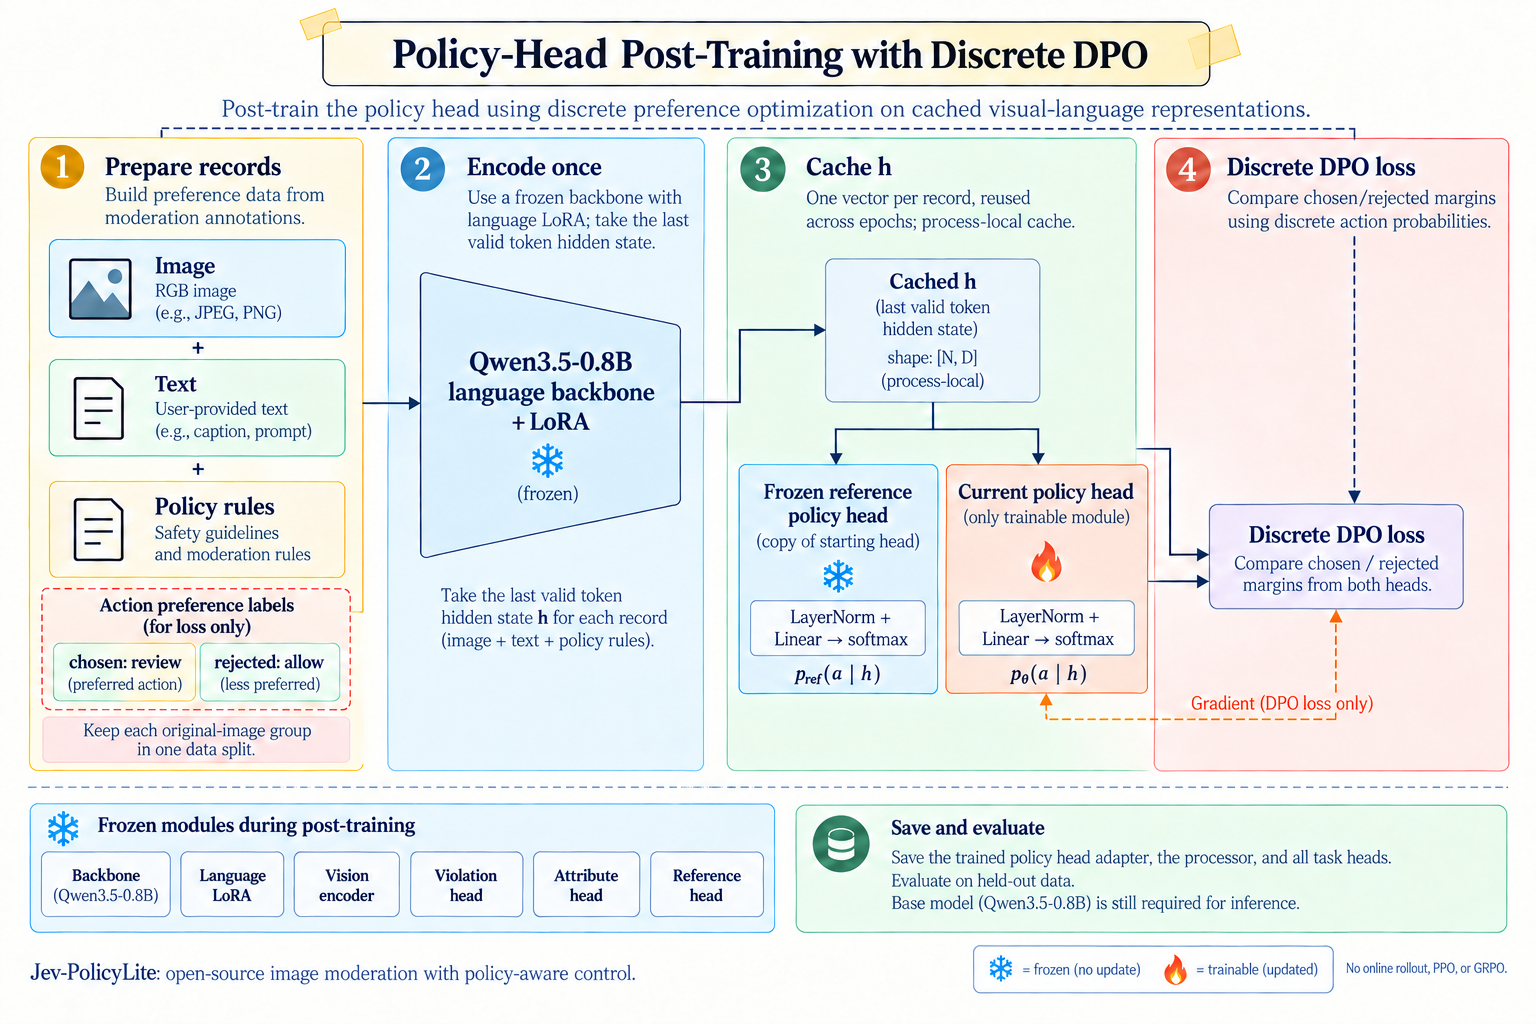
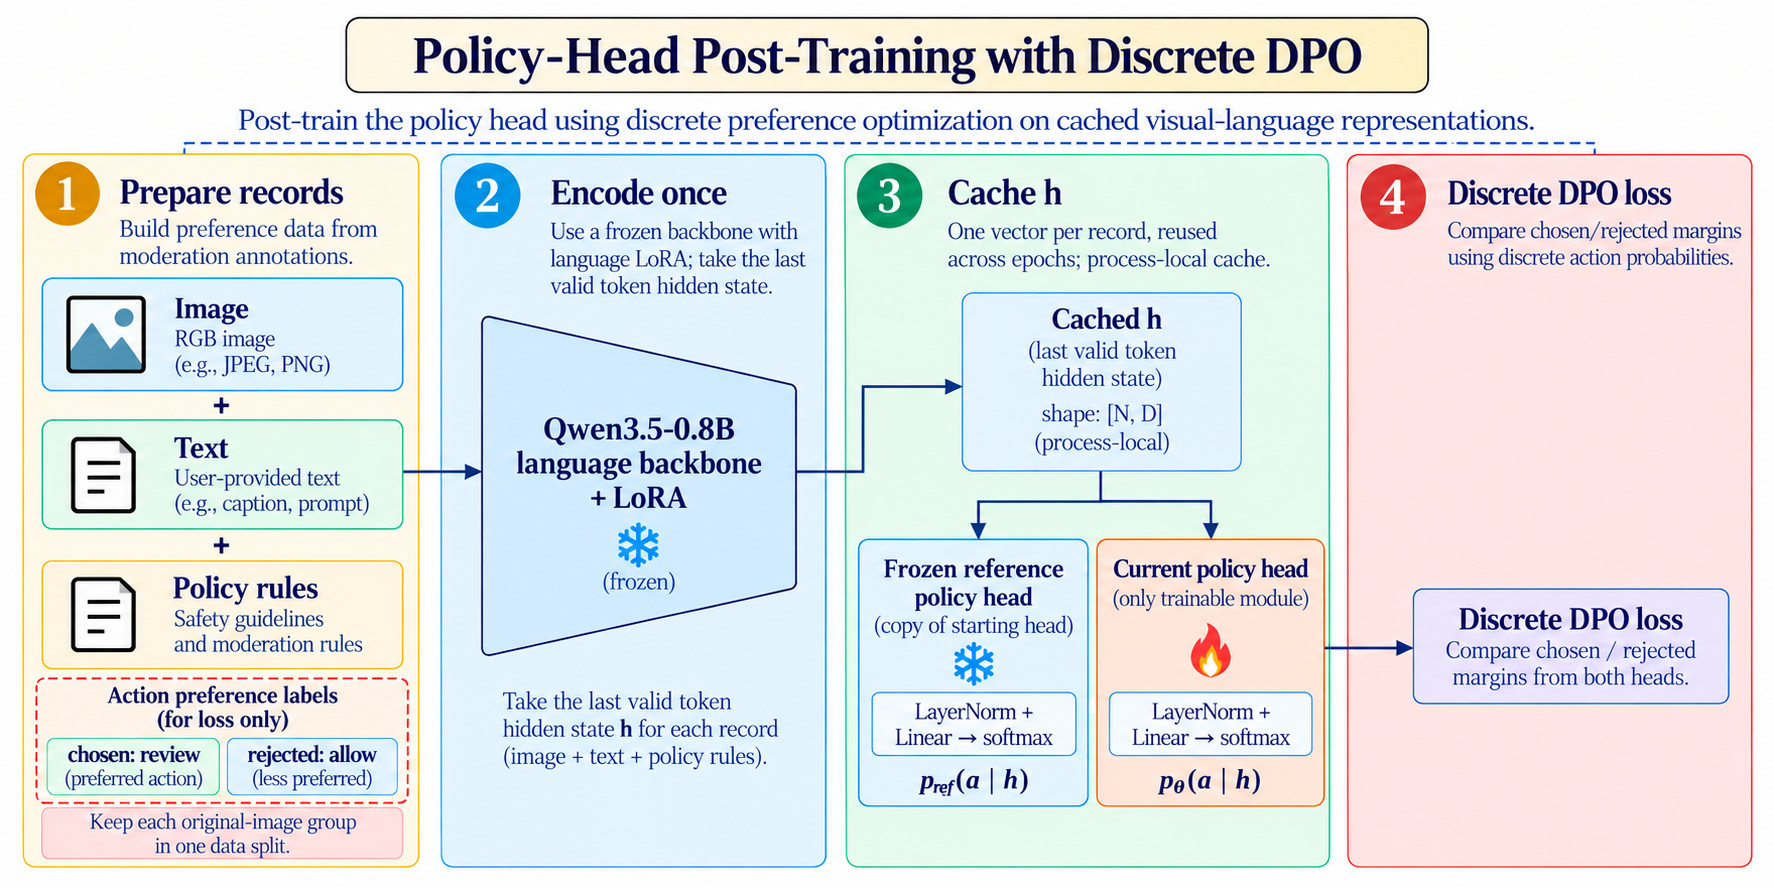
docs: use supplied final DPO figure

diff --git a/site/index.html b/site/index.html
@@ -73,7 +73,7 @@
 
     <section class="section wrap" id="post-training">
       <div class="section-heading"><div><p class="eyebrow">03 — POST-TRAINING, MADE LIGHTER</p><h2>缓存特征，<em>只训练策略头。</em></h2></div><p>每条图文记录先编码一次，在本次进程内缓存特征。<br>后续训练轮次不再重复运行主干。</p></div>
-      <figure class="paper-figure"><div class="figure-label"><span>FIG. 02 / PREFERENCE OPTIMIZATION</span><span>后训练工作流</span></div><button class="image-button" data-zoom="assets/post-training-paper.png" data-caption="后训练流程：偏好对、冻结特征与离散 DPO" aria-label="放大后训练流程图"><img src="assets/post-training-paper.png" width="1536" height="1024" alt="图片、正文和规则由冻结主干编码；缓存特征输入参考头与可训练策略头。chosen/rejected 是用于 DPO 损失的动作标签，梯度只更新策略头。"></button><figcaption>蓝色模块冻结，橙色模块更新；橙色虚线表示梯度，深色虚线表示动作标签。参考头只复制起始策略头，不复制整个主干。</figcaption></figure>
+      <figure class="paper-figure"><div class="figure-label"><span>FIG. 02 / PREFERENCE OPTIMIZATION</span><span>后训练工作流</span></div><button class="image-button" data-zoom="assets/post-training-paper.png" data-caption="后训练流程：偏好对、冻结特征与离散 DPO" aria-label="放大后训练流程图"><img src="assets/post-training-paper.png" width="1774" height="887" alt="图片、正文和规则由冻结主干编码；缓存特征输入参考头与可训练策略头。chosen/rejected 是用于 DPO 损失的动作标签，只更新策略头。"></button><figcaption>主干和参考策略头冻结，当前策略头是唯一可训练模块；chosen/rejected 是用于损失计算的动作标签。参考头只复制起始策略头，不复制整个主干。</figcaption></figure>
       <div class="training-explorer">
         <div role="tablist" aria-label="后训练阶段" class="stage-tabs">
           <button role="tab" id="stage-tab-0" aria-selected="true" aria-controls="stage-panel" data-stage="0"><span>01</span>监督适配</button>

diff --git a/docs/DESIGN_REFERENCES.md b/docs/DESIGN_REFERENCES.md
@@ -11,7 +11,7 @@ The original page drew layout references from [Nerfies](https://nerfies.github.i
 | Model architecture | [architecture-paper.png](../site/assets/architecture-paper.png) | [architecture.svg](../site/assets/architecture.svg) | [architecture.png](../site/assets/architecture.png) |
 | Policy-head DPO | [post-training-paper.png](../site/assets/post-training-paper.png) | [post-training.svg](../site/assets/post-training.svg) | [post-training.png](../site/assets/post-training.png) |
 
-The SVGs contain editable text, shapes and arrows, not embedded screenshots. They are checked against `model.py`, `heads.py`, `feedback.py` and `train_policy_dpo.py`. Their deterministic PNG counterparts are generated from those SVGs. The README and project page display the separate paper-style PNGs generated with imagegen; the SVGs remain the precise, editable technical source. No experimental image or benchmark result is drawn into either figure.
+The SVGs contain editable text, shapes and arrows, not embedded screenshots. They are checked against `model.py`, `heads.py`, `feedback.py` and `train_policy_dpo.py`. Their deterministic PNG counterparts are generated from those SVGs. The README and project page display separate paper-style PNGs; the post-training figure uses the final image supplied by the project owner. The SVGs remain the precise, editable technical source. No experimental image or benchmark result is drawn into either figure.
 
 The architecture selects the final hidden state of the **last valid token**, not an average of token states. All three heads read it independently. The DPO diagram separates image/text/policy inputs from the `chosen` and `rejected` **action labels** used by the loss. Blue denotes frozen modules; orange denotes the trainable head. The orange dashed arrow is the gradient path; the dark dashed line carries action labels.
 
